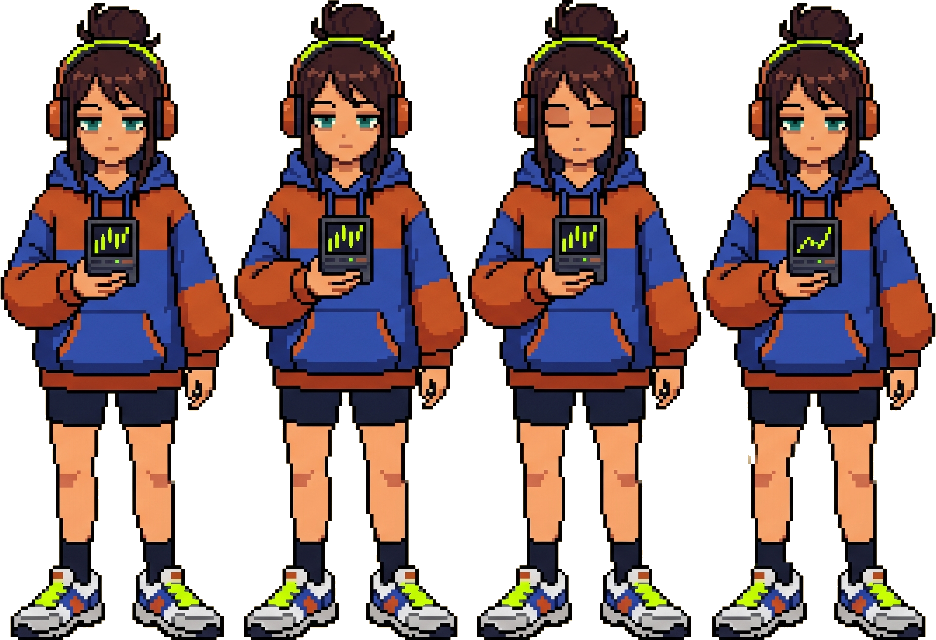
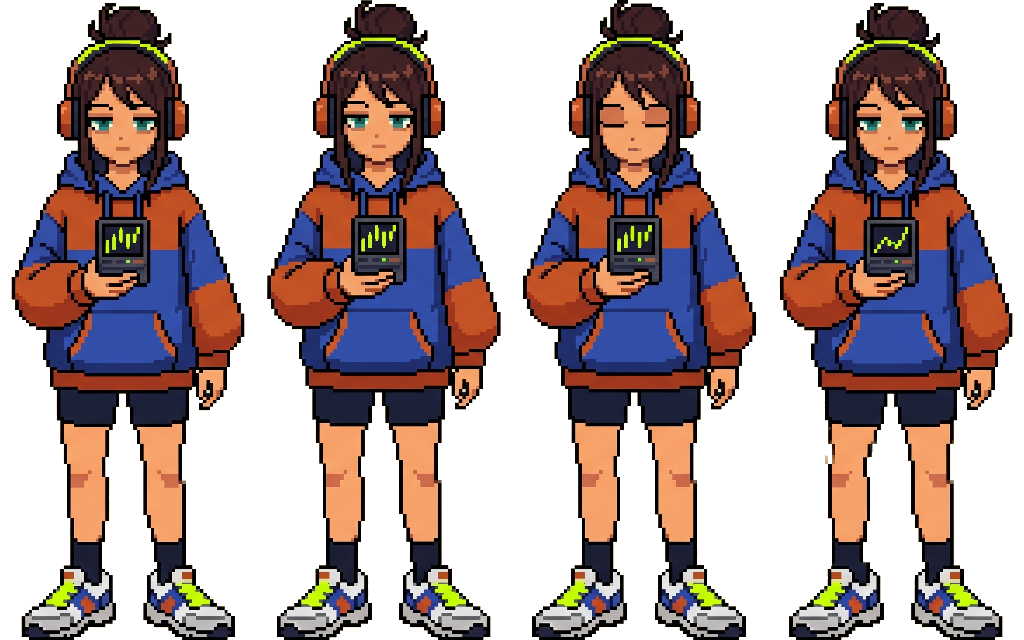
fix(assets): margen por cuadro en la hoja de sprites — se veia cortado
Jose reporto que "queda todo cortado". Medido: los 4 cuadros tenian 22-24
pixeles OPACOS pegados a sus dos columnas de borde, porque las figuras venian
recortadas al contenido y quedaban pegadas entre si. Con background-position en
porcentajes, cualquier redondeo sub-pixel deja asomar una tajada del cuadro
vecino, y eso es lo que se lee como recorte.

Hoja recompuesta: celdas de 256 px (antes 234) con cada figura centrada y
anclada por los pies. Verificado: 0 pixeles opacos en las columnas de borde de
los cuatro cuadros, y los cuatro renderizan completos en el navegador.

Unico cambio de CSS: aspect-ratio 234/640 -> 256/640, para acompanar la celda
nueva. El resto del ciclo (ritmo no uniforme, parpadeo corto) es de la sesion
paralela y no se toco.

Changed region(s): [[0.0, 0.0, 1.0, 1.0]]

diff --git a/src/app/theme.css b/src/app/theme.css
@@ -922,7 +922,7 @@ td.spk {
   width: 100%;
   max-width: 14rem;
   margin: 0 auto;
-  aspect-ratio: 234 / 640;
+  aspect-ratio: 256 / 640;
   background-image: url('/pixel/analyst-idle.png');
   background-repeat: no-repeat;
   background-size: 400% 100%;
